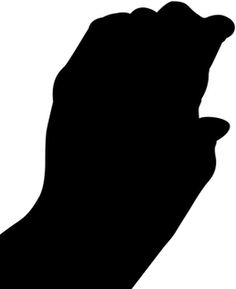
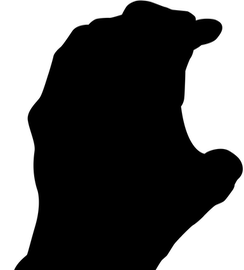
placing good enough

Changed region(s): [[0.0, 0.0, 1.0, 1.0]]

diff --git a/lib/data/grips.data.dart b/lib/data/grips.data.dart
@@ -50,10 +50,10 @@ abstract class Grips {
       ..count = 5).toBuilder()
     ..imageAsset = 'assets/images/grips/pinch_L.png'
     ..handType = HandType.leftHand
-    ..anchorX = 175
-    ..anchorY = 35
-    ..imageAssetWidth = 236
-    ..imageAssetHeight = 289);
+    ..anchorX = 165
+    ..anchorY = 41
+    ..imageAssetWidth = 244
+    ..imageAssetHeight = 270);
 
   static Grip pinchR = Grip((b) => b
     ..crimped = true
@@ -68,10 +68,10 @@ abstract class Grips {
       ..count = 5).toBuilder()
     ..imageAsset = 'assets/images/grips/pinch_R.png'
     ..handType = HandType.rightHand
-    ..anchorX = 71
-    ..anchorY = 35
-    ..imageAssetWidth = 236
-    ..imageAssetHeight = 289);
+    ..anchorX = 90
+    ..anchorY = 41
+    ..imageAssetWidth = 244
+    ..imageAssetHeight = 270);
 
   static Grip monoPinkyL = Grip((b) => b
     ..crimped = false
